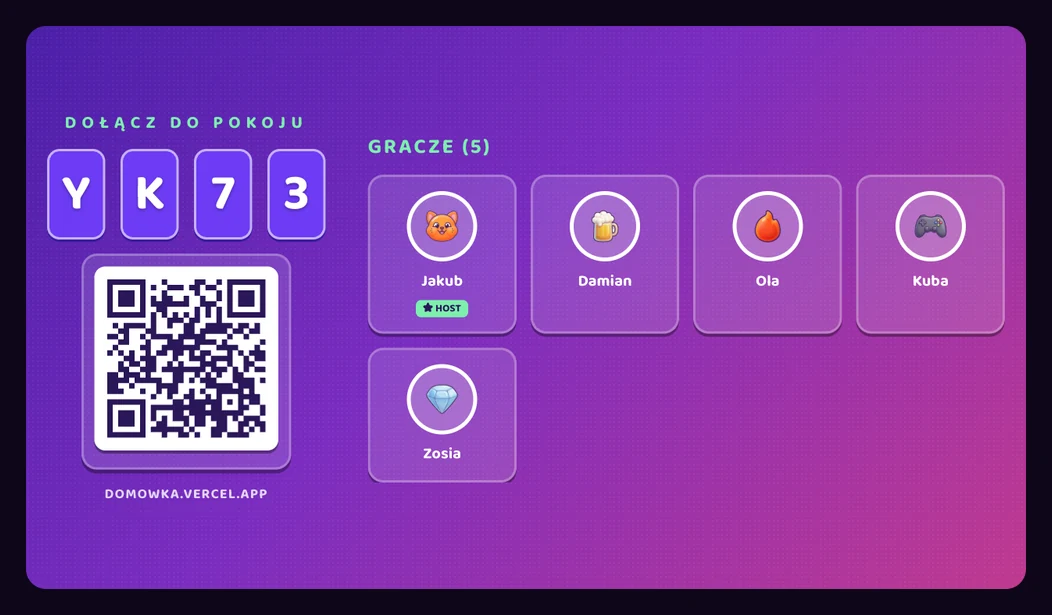
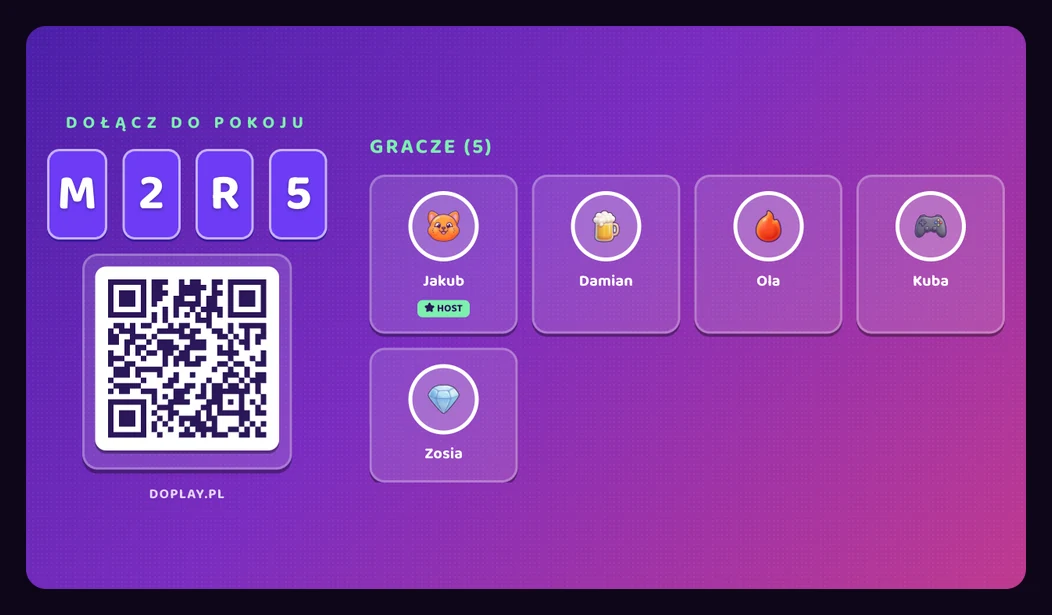
feat: rebranding na Doplay i przejście na domenę doplay.pl
Nazwa widoczna dla użytkownika zmienia się wszędzie: tytuł strony,
applicationName, tytuł iOS, OG i Twitter card, manifest PWA (name +
short_name), nagłówek landingu, stopka, ekran TV, ekran offline, tytuł przy
udostępnianiu, prompt instalacji (PL i EN) i proza polityki prywatności.
SITE_URL / metadataBase wskazują teraz na https://doplay.pl.

Świadomie BEZ zmian, mimo że zawierają starą nazwę:

- `domowka-locale` i `domowka-session` — identyfikują dane już zapisane
  w przeglądarkach graczy. Zmiana odcięłaby wracającego gracza od nicku,
  awatara, języka i aktywnego pokoju; wyglądałoby to jak skasowanie danych
  bez powodu. Powód dopisany w komentarzu przy obu kluczach, żeby ktoś ich
  później nie „poprawił".
- projekt Firebase `domowka-39gd0` — zmiana to migracja backendu.
- nazwy kluczy w tabeli na /prywatnosc — muszą podawać faktyczne wartości.
- Załącznik A w SPEC.md, AUDIT.md, UPGRADE.md, design/*.md — dokumenty
  z datą, opisujące stan sprzed rebrandingu.

Ikony i obrazek OG zostają: monogram „D" pasuje do Doplay tak samo, a OG nie
zawiera tekstu.

Zrzuty do README zrobione od nowa, bo pokazywały starą nazwę i stary adres.
Przy okazji poprawione wyciszanie promptu instalacji na czas zrzutów — klucz
trzyma znacznik czasu, nie flagę, więc wpisanie "1" znaczyło „odrzucone
w 1970" i pasek wracał.

DNS: doplay.pl → A 216.198.79.1, www → CNAME na Vercel. Zweryfikowane:
apex 308 → www, www 200, certyfikaty wystawione.

diff --git a/src/lib/i18n/privacy.ts b/src/lib/i18n/privacy.ts
@@ -35,7 +35,7 @@ const pl: PrivacyContent = {
   title: "Prywatność i dane",
   updated: "Ostatnia aktualizacja: 20 sierpnia 2026",
   intro:
-    "Domówka nie ma kont, nie prosi o e-mail i nie zbiera danych do celów marketingowych. Poniżej dokładnie to, co aplikacja zapisuje na Twoim urządzeniu i po co.",
+    "Doplay nie ma kont, nie prosi o e-mail i nie zbiera danych do celów marketingowych. Poniżej dokładnie to, co aplikacja zapisuje na Twoim urządzeniu i po co.",
   noTrackingTitle: "Bez śledzenia",
   noTracking:
     "Nie używamy analityki, reklam, pikseli ani narzędzi profilujących. Nie przekazujemy niczego reklamodawcom. Dlatego nie ma tu banera „akceptuj ciasteczka” — nie ma czego odrzucić: wszystko poniżej jest albo niezbędne do działania gry, albo zapisywane dopiero wtedy, gdy sam coś ustawisz.",
@@ -71,7 +71,7 @@ const en: PrivacyContent = {
   title: "Privacy and data",
   updated: "Last updated: 20 August 2026",
   intro:
-    "Domówka has no accounts, never asks for your email, and collects nothing for marketing. Below is exactly what the app stores on your device and why.",
+    "Doplay has no accounts, never asks for your email, and collects nothing for marketing. Below is exactly what the app stores on your device and why.",
   noTrackingTitle: "No tracking",
   noTracking:
     "We use no analytics, no ads, no pixels and no profiling tools. Nothing is shared with advertisers. That's why there's no “accept cookies” banner here — there is nothing to reject: everything below is either required for the game to work, or saved only once you change a setting yourself.",

diff --git a/src/app/layout.tsx b/src/app/layout.tsx
@@ -33,7 +33,7 @@ const jetbrainsMono = JetBrains_Mono({
   display: "swap",
 });
 
-const SITE_URL = "https://domowka.vercel.app";
+const SITE_URL = "https://doplay.pl";
 
 // Kartę linku budujemy w języku czytelnika. Link do pokoju wkleja się do czatu
 // grupowego i to on jest pierwszym kontaktem z aplikacją — obrazek bierze się
@@ -45,11 +45,11 @@ export async function generateMetadata(): Promise<Metadata> {
 
   return {
     metadataBase: new URL(SITE_URL),
-    title: "Domówka",
+    title: "Doplay",
     description,
     manifest: "/manifest.webmanifest",
-    applicationName: "Domówka",
-    appleWebApp: { capable: true, statusBarStyle: "black-translucent", title: "Domówka" },
+    applicationName: "Doplay",
+    appleWebApp: { capable: true, statusBarStyle: "black-translucent", title: "Doplay" },
     icons: {
       icon: [
         { url: "/icon-192.png", type: "image/png", sizes: "192x192" },
@@ -59,13 +59,13 @@ export async function generateMetadata(): Promise<Metadata> {
     },
     openGraph: {
       type: "website",
-      siteName: "Domówka",
-      title: "Domówka",
+      siteName: "Doplay",
+      title: "Doplay",
       description,
       url: SITE_URL,
       locale: locale === "pl" ? "pl_PL" : "en_US",
     },
-    twitter: { card: "summary_large_image", title: "Domówka", description },
+    twitter: { card: "summary_large_image", title: "Doplay", description },
   };
 }
 

diff --git a/src/components/LandingContent.tsx b/src/components/LandingContent.tsx
@@ -39,7 +39,7 @@ export function LandingContent() {
             aria-hidden
           />
           <h1 className="font-display text-5xl font-bold uppercase tracking-wide text-ink drop-shadow-[0_4px_0_rgb(0_0_0/0.35)] sm:text-6xl">
-            Domówka
+            Doplay
           </h1>
           <p className="max-w-md text-lg font-semibold leading-relaxed text-ink-muted">
             {t("landing.tagline")}
@@ -93,7 +93,7 @@ export function LandingContent() {
           <GithubMark />
           {t("footer.madeBy", { name: "Jakub Bondel" })}
         </a>
-        <span className="opacity-70">domowka.vercel.app</span>
+        <span className="opacity-70">doplay.pl</span>
       </footer>
     </main>
   );

diff --git a/src/lib/i18n/types.ts b/src/lib/i18n/types.ts
@@ -7,6 +7,10 @@ export const DEFAULT_LOCALE: Locale = "pl";
  * MUSI żyć w module bez "use client": Next.js zamienia moduły klienckie na referencje,
  * więc stała zaimportowana z provider.tsx do layoutu serwerowego byłaby `undefined`,
  * a cookies().get(undefined) po cichu zwracałoby brak języka.
+ *
+ * Wartość pochodzi z czasów, gdy aplikacja nazywała się Domówka — NIE zmieniać przy
+ * rebrandingu: klucz identyfikuje dane już zapisane w przeglądarkach graczy. Zmiana =
+ * wracający gracz traci ustawienia i wygląda to jak wyczyszczenie danych bez powodu.
  */
 export const LOCALE_COOKIE = "domowka-locale";
 

diff --git a/src/lib/i18n/dict.ts b/src/lib/i18n/dict.ts
@@ -43,7 +43,7 @@ const pl = {
   "entry.randomAvatar": "Losuj",
 
   // — instalacja PWA —
-  "install.title": "Zainstaluj Domówkę",
+  "install.title": "Zainstaluj Doplay",
   "install.label": "Zainstaluj",
   "install.add": "Dodaj",
   "install.iosHint": "Kliknij Udostępnij, a potem Dodaj do ekranu początkowego.",
@@ -503,7 +503,7 @@ const en: Record<Key, string> = {
   "entry.randomAvatar": "Random",
 
   // — PWA install —
-  "install.title": "Install Domówka",
+  "install.title": "Install Doplay",
   "install.label": "Install",
   "install.add": "Add",
   "install.iosHint": "Tap Share, then Add to Home Screen.",

diff --git a/src/lib/store/session.ts b/src/lib/store/session.ts
@@ -28,6 +28,8 @@ export const useSession = create<SessionState>()(
       setActiveRoom: (activeRoom) => set({ activeRoom }),
     }),
     {
+      // Nazwa sprzed rebrandingu na Doplay — patrz LOCALE_COOKIE w i18n/types.ts.
+      // Zmiana odcięłaby wracających graczy od zapisanego nicku, awatara i pokoju.
       name: "domowka-session",
       // v1: awatary z emoji na identyfikatory ikon. Bez migracji wracający gracz
       // ma w localStorage np. "🦊", nic nie jest zaznaczone w siatce i wybór

diff --git a/src/app/~offline/page.tsx b/src/app/~offline/page.tsx
@@ -14,7 +14,7 @@ export default function OfflinePage() {
           Brak połączenia
         </h1>
         <p className="max-w-xs text-base font-semibold leading-relaxed text-ink-muted">
-          Domówka potrzebuje internetu, żeby zsynchronizować graczy. Sprawdź
+          Doplay potrzebuje internetu, żeby zsynchronizować graczy. Sprawdź
           Wi-Fi i spróbuj ponownie.
         </p>
       </div>

diff --git a/src/components/ShareButton.tsx b/src/components/ShareButton.tsx
@@ -17,7 +17,7 @@ export function ShareButton({ code, compact }: { code: string; compact?: boolean
 
     if (navigator.share) {
       try {
-        await navigator.share({ title: "Domówka", text, url });
+        await navigator.share({ title: "Doplay", text, url });
         vibrate(15);
         return;
       } catch {

diff --git a/src/app/pokoj/[code]/ekran/page.tsx b/src/app/pokoj/[code]/ekran/page.tsx
@@ -102,7 +102,7 @@ export default function EkranPage() {
             <RoomQr code={code} size={180} />
           </div>
           <span className="font-display text-base font-bold uppercase tracking-[0.06em] text-ink-muted">
-            domowka.vercel.app
+            doplay.pl
           </span>
         </section>
 

diff --git a/README.pl.md b/README.pl.md
@@ -1,8 +1,8 @@
 <p align="center">
-  <img src="public/icon-512.png" width="96" height="96" alt="Domówka logo" style="border-radius: 20px" />
+  <img src="public/icon-512.png" width="96" height="96" alt="Doplay logo" style="border-radius: 20px" />
 </p>
 
-<h1 align="center">Domówka</h1>
+<h1 align="center">Doplay</h1>
 
 <p align="center">
   <a href="README.md">English</a> · <b>Polski</b>
@@ -11,7 +11,7 @@
 <p align="center">
   Imprezowe gry multiplayer w przeglądarce. Każdy na swoim telefonie, jeden wspólny pokój.
   <br />
-  <a href="https://domowka.vercel.app"><strong>🔗 domowka.vercel.app</strong></a>
+  <a href="https://doplay.pl"><strong>🔗 doplay.pl</strong></a>
 </p>
 
 <p align="center">
@@ -29,7 +29,7 @@
 
 ## O aplikacji
 
-**Domówka** to zestaw imprezowych gier multiplayer, w które gracie na jednym spotkaniu — każdy na swoim telefonie. Bez kont, bez pobierania, bez tłumaczenia zasad. Jedna osoba zakłada pokój, reszta wpisuje 4-znakowy kod i za **15 sekund gracie**.
+**Doplay** to zestaw imprezowych gier multiplayer, w które gracie na jednym spotkaniu — każdy na swoim telefonie. Bez kont, bez pobierania, bez tłumaczenia zasad. Jedna osoba zakłada pokój, reszta wpisuje 4-znakowy kod i za **15 sekund gracie**.
 
 ### Jak to działa?
 
@@ -45,18 +45,18 @@ Interfejs przełącza się w całości: nic nie zostaje przetłumaczone do poło
 
 **Polski**
 
-![Domówka po polsku: strona główna, dołączanie do pokoju, lobby i runda Wisielca](docs/screenshots/telefony-pl.webp)
+![Doplay po polsku: strona główna, dołączanie do pokoju, lobby i runda Wisielca](docs/screenshots/telefony-pl.webp)
 
 **English**
 
-![Domówka po angielsku: strona główna, dołączanie do pokoju, lobby i runda Wisielca](docs/screenshots/telefony-en.webp)
+![Doplay po angielsku: strona główna, dołączanie do pokoju, lobby i runda Wisielca](docs/screenshots/telefony-en.webp)
 
 ### Ekran hosta (TV)
 
 Osobny układ poziomy na laptopa albo telewizor — wielki kod pokoju, QR do zeskanowania i kto już jest.
 Otwierasz go z lobby; gracze zostają przy swoich telefonach.
 
-![Ekran hosta na telewizorze: kod pokoju YK73, kod QR i pięcioro graczy](docs/screenshots/ekran-tv.webp)
+![Ekran hosta na telewizorze: kod pokoju M2R5, kod QR i pięcioro graczy](docs/screenshots/ekran-tv.webp)
 
 ## Gry
 
@@ -80,7 +80,7 @@ Otwierasz go z lobby; gracze zostają przy swoich telefonach.
 ### Pokój i lobby
 - **4-znakowy kod pokoju** — klocowate litery, kliknij żeby skopiować
 - **QR code** — skan z telefonu, zero wpisywania
-- **Deep link** — `domowka.vercel.app/?kod=XYZW` wchodzi prosto do pokoju
+- **Deep link** — `doplay.pl/?kod=XYZW` wchodzi prosto do pokoju
 - **Udostępnianie** — przycisk Share (native share / clipboard fallback)
 - **Ekran hosta (TV)** — osobny układ poziomy na laptop/TV, czytelny z kanapy
 - **Awatary** — 30 ilustrowanych ikon w kolorowych kafelkach

diff --git a/README.md b/README.md
@@ -1,8 +1,8 @@
 <p align="center">
-  <img src="public/icon-512.png" width="96" height="96" alt="Domówka logo" style="border-radius: 20px" />
+  <img src="public/icon-512.png" width="96" height="96" alt="Doplay logo" style="border-radius: 20px" />
 </p>
 
-<h1 align="center">Domówka</h1>
+<h1 align="center">Doplay</h1>
 
 <p align="center">
   <b>English</b> · <a href="README.pl.md">Polski</a>
@@ -11,7 +11,7 @@
 <p align="center">
   Multiplayer party games in the browser. Everyone on their own phone, one shared room.
   <br />
-  <a href="https://domowka.vercel.app"><strong>🔗 domowka.vercel.app</strong></a>
+  <a href="https://doplay.pl"><strong>🔗 doplay.pl</strong></a>
 </p>
 
 <p align="center">
@@ -36,7 +36,7 @@
 
 ## About
 
-**Domówka** ("house party" in Polish) is a set of multiplayer party games you play in a single sitting — everyone on their own phone. No accounts, no downloads, no explaining the rules. One person creates a room, everyone else types a 4-character code, and **you're playing in 15 seconds**.
+**Doplay** is a set of multiplayer party games you play in a single sitting — everyone on their own phone. No accounts, no downloads, no explaining the rules. One person creates a room, everyone else types a 4-character code, and **you're playing in 15 seconds**.
 
 ### How it works
 
@@ -52,18 +52,18 @@ The interface switches whole: nothing is left half-translated.
 
 **Polski**
 
-![Domówka in Polish: landing, joining a room, lobby and a Hangman round](docs/screenshots/telefony-pl.webp)
+![Doplay in Polish: landing, joining a room, lobby and a Hangman round](docs/screenshots/telefony-pl.webp)
 
 **English**
 
-![Domówka in English: landing, joining a room, lobby and a Hangman round](docs/screenshots/telefony-en.webp)
+![Doplay in English: landing, joining a room, lobby and a Hangman round](docs/screenshots/telefony-en.webp)
 
 ### Host screen (TV)
 
 A separate landscape layout for a laptop or TV — huge room code, QR to scan, and who's already in.
 Open it from the lobby; players keep their own phones.
 
-![Host screen on a TV: room code YK73, QR code and five players](docs/screenshots/ekran-tv.webp)
+![Host screen on a TV: room code M2R5, QR code and five players](docs/screenshots/ekran-tv.webp)
 
 ## Games
 
@@ -88,7 +88,7 @@ Open it from the lobby; players keep their own phones.
 ### Room and lobby
 - **4-character room code** — chunky letters, click to copy
 - **QR code** — scan from a phone, no typing
-- **Deep link** — `domowka.vercel.app/?kod=XYZW` goes straight into the room
+- **Deep link** — `doplay.pl/?kod=XYZW` goes straight into the room
 - **Sharing** — Share button (native share / clipboard fallback)
 - **Host screen (TV)** — separate landscape layout for a laptop/TV, readable from the couch
 - **Avatars** — 30 illustrated icons on colored tiles

diff --git a/CLAUDE.md b/CLAUDE.md
@@ -1,8 +1,15 @@
-# Domówka — pamięć projektu
+# Doplay — pamięć projektu
 
 ## Co to jest
 
-Multiplayerowe gry imprezowe w przeglądarce. Każdy gracz na swoim telefonie, wspólny pokój z 4-znakowym kodem. Gry: kółko i krzyżyk, Stoper, Państwa-miasta, Wisielec, Impostor, Mafia.
+Multiplayerowe gry imprezowe w przeglądarce. Każdy gracz na swoim telefonie,
+wspólny pokój z 4-znakowym kodem. Domena: **doplay.pl**
+
+Do sierpnia 2026 aplikacja nazywała się Domówka. Stąd klucze `domowka-locale`,
+`domowka-session` i projekt Firebase `domowka-39gd0` — **tych nazw nie zmieniamy**:
+identyfikują dane już zapisane w przeglądarkach graczy i w backendzie.
+
+Gry: kółko i krzyżyk, Stoper, Państwa-miasta, Wisielec, Impostor, Mafia.
 
 Stack: Next.js 15 (App Router) + TypeScript strict + Tailwind v4 + Firebase (Firestore + Anonymous Auth) + Vercel.
 
